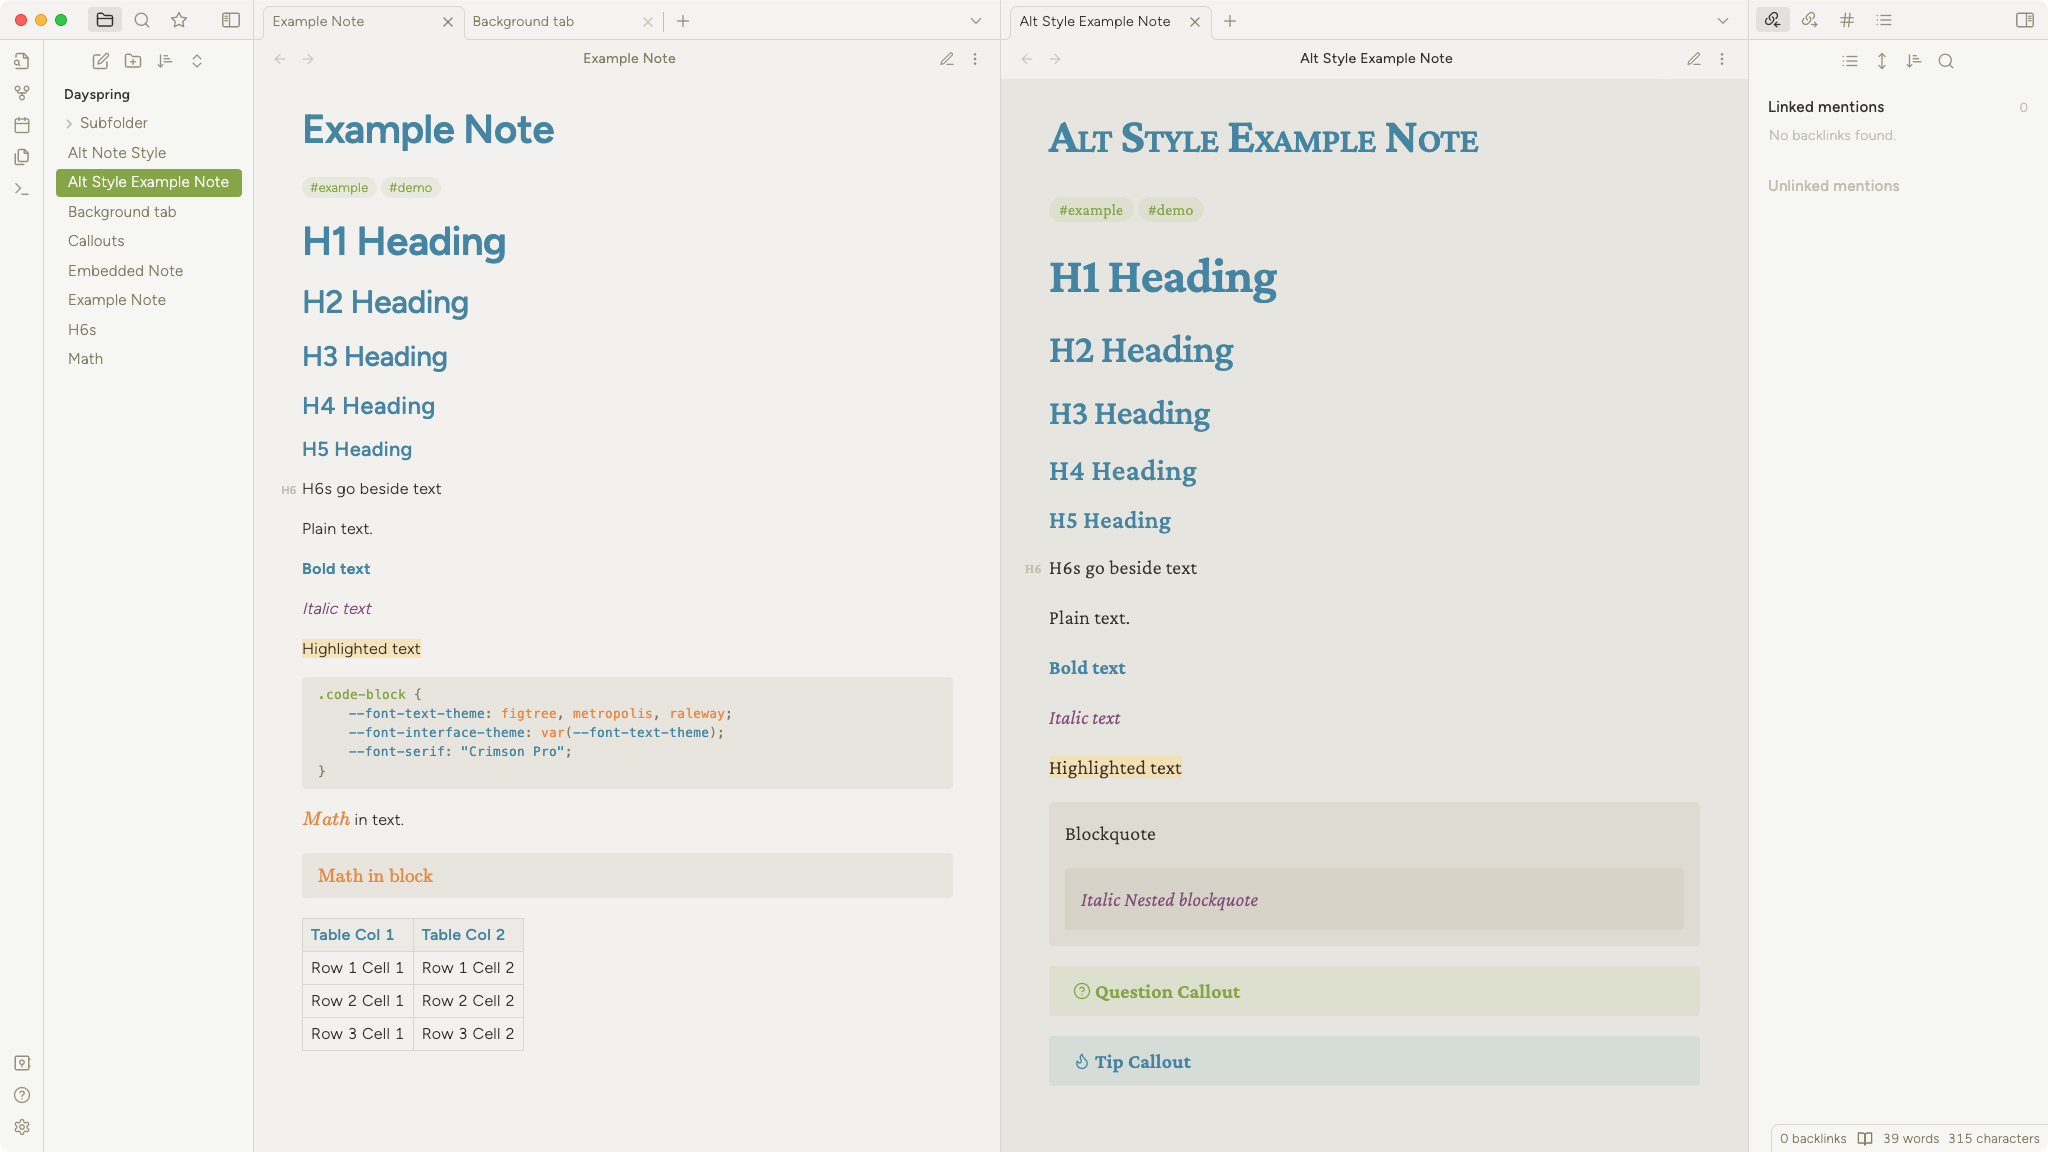
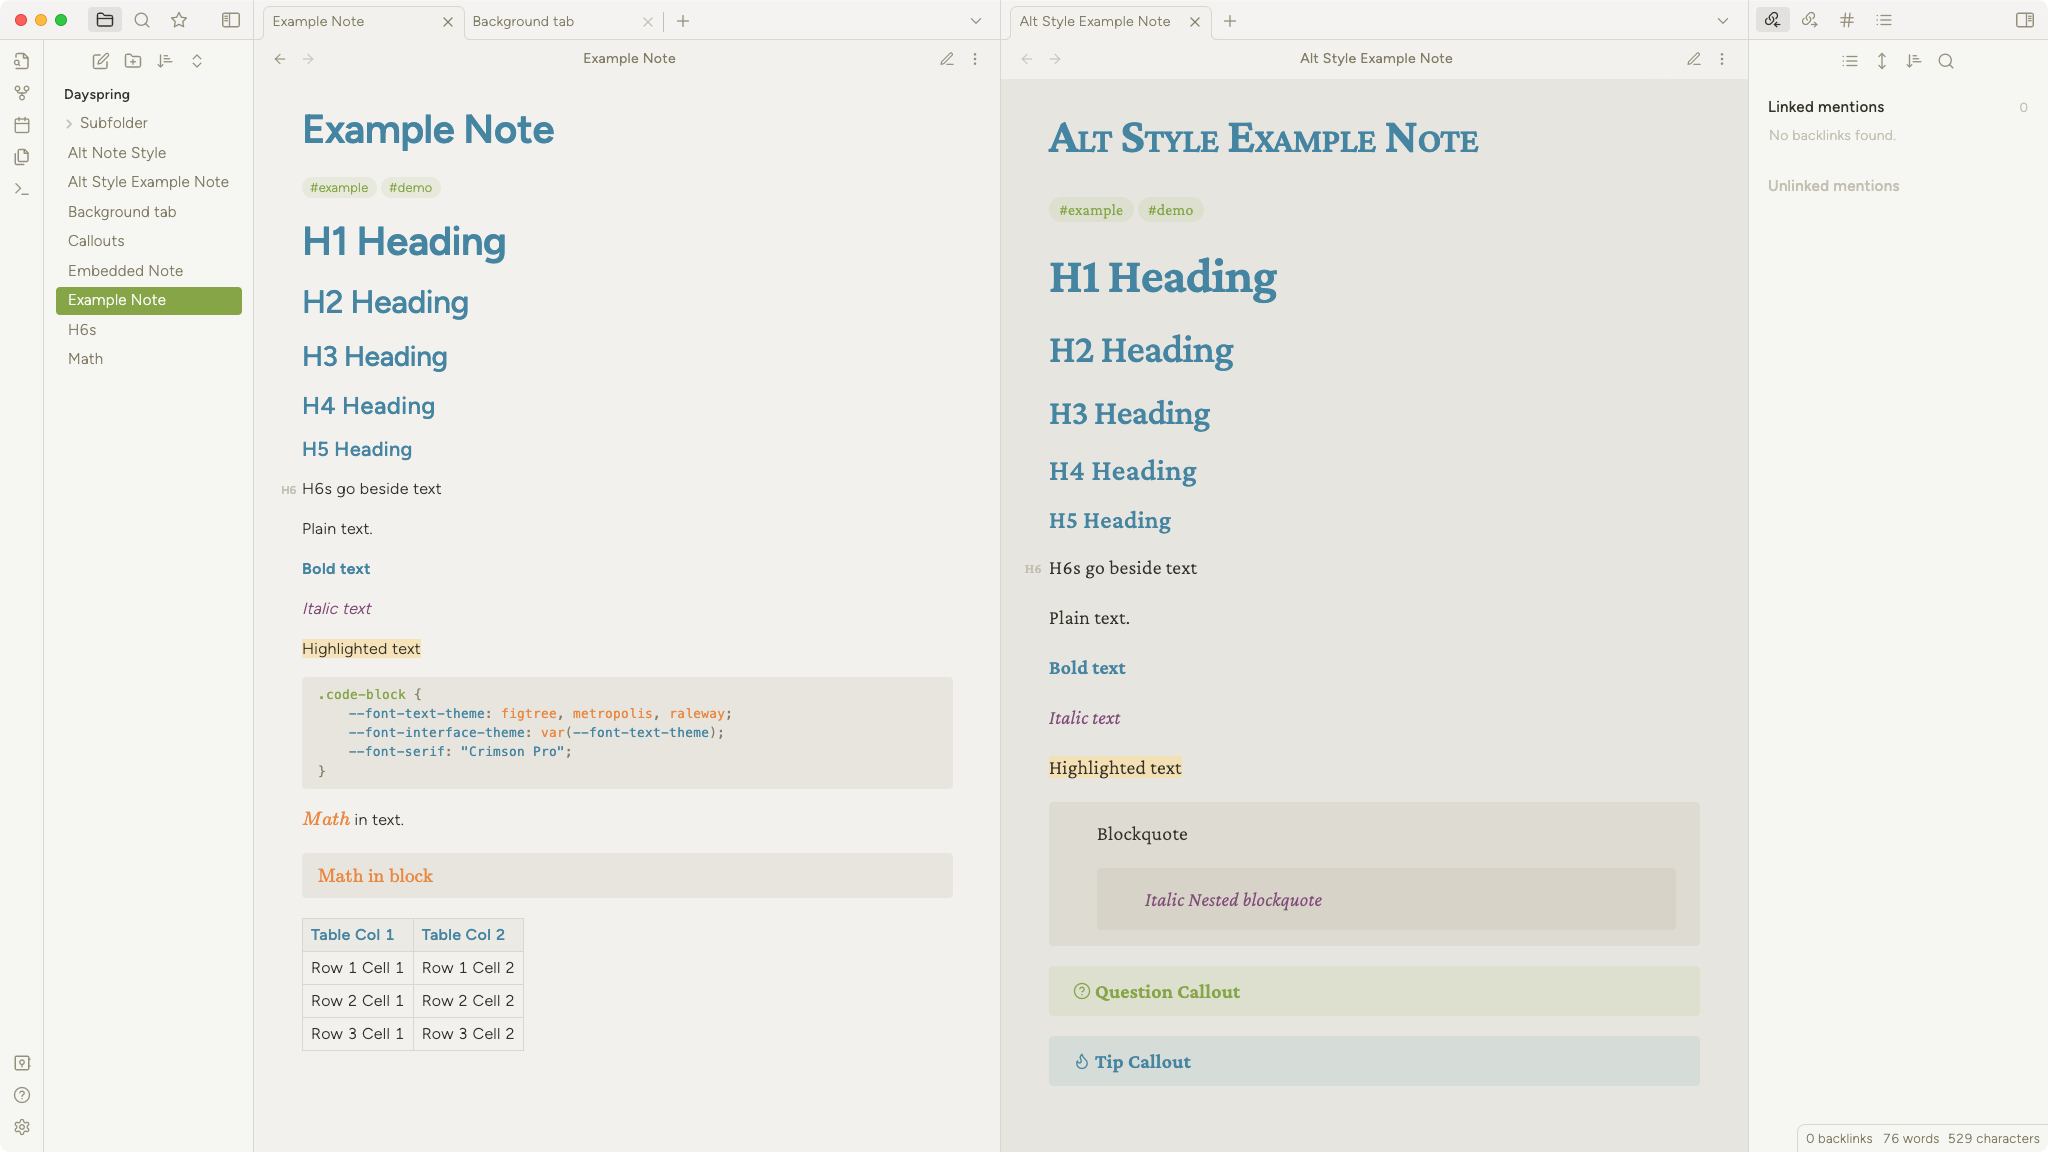
update blockquote padding to work with h6s
h6s need additional left padding to display properly beside the content.
Before this change, h6s would show partially in the blockquote and
partially outside of it.

diff --git a/theme.css b/theme.css
@@ -497,7 +497,7 @@ span.cm-quote.cm-strong {
 /* Padding and radius around blockquotes */
 .markdown-rendered blockquote,
 .markdown-source-view.is-live-preview .HyperMD-quote {
-	padding: var(--size-4-4);
+	padding: var(--size-4-4) var(--size-4-6) var(--size-4-4) var(--size-4-12);
 }
 
 .markdown-rendered blockquote {
